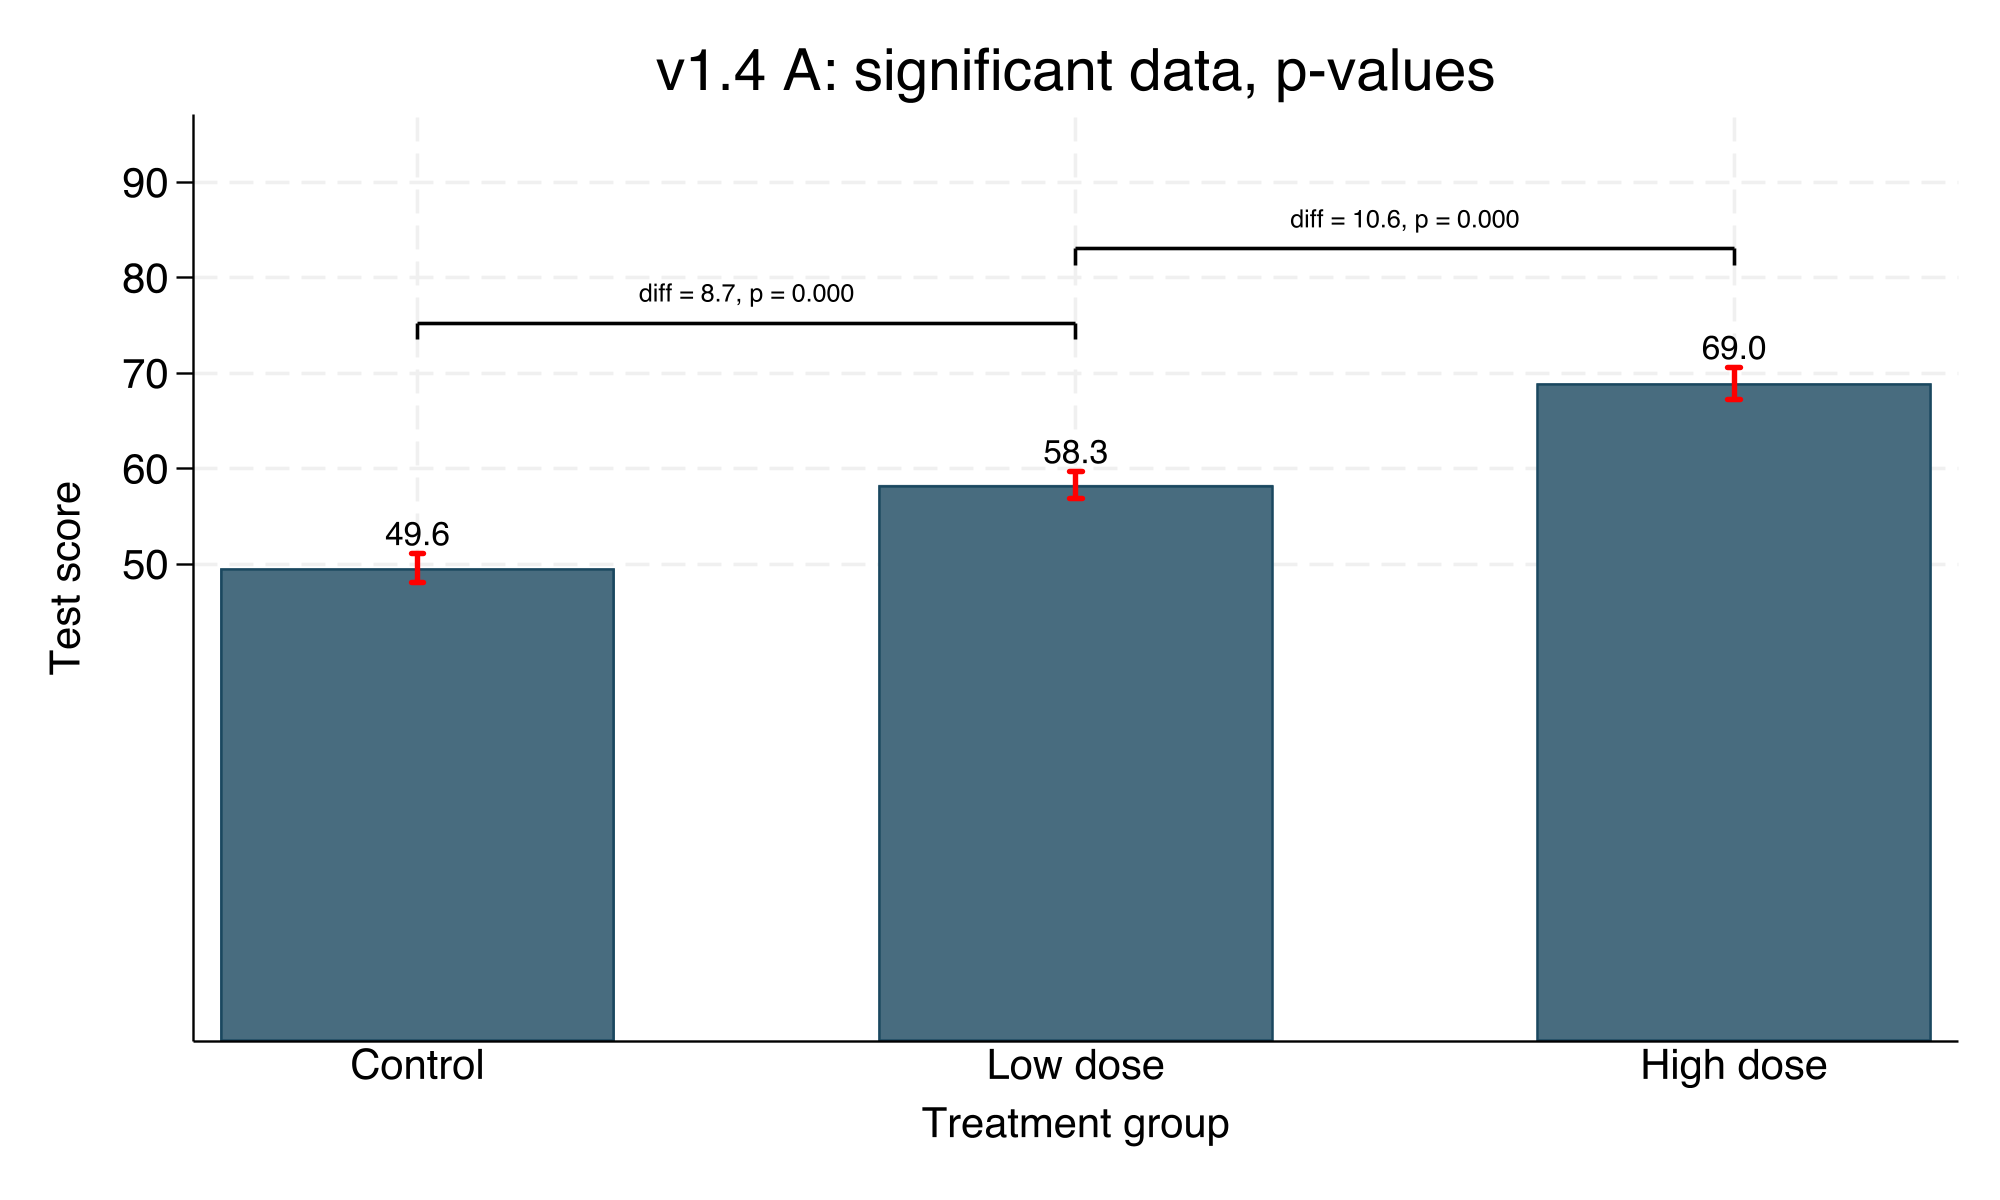
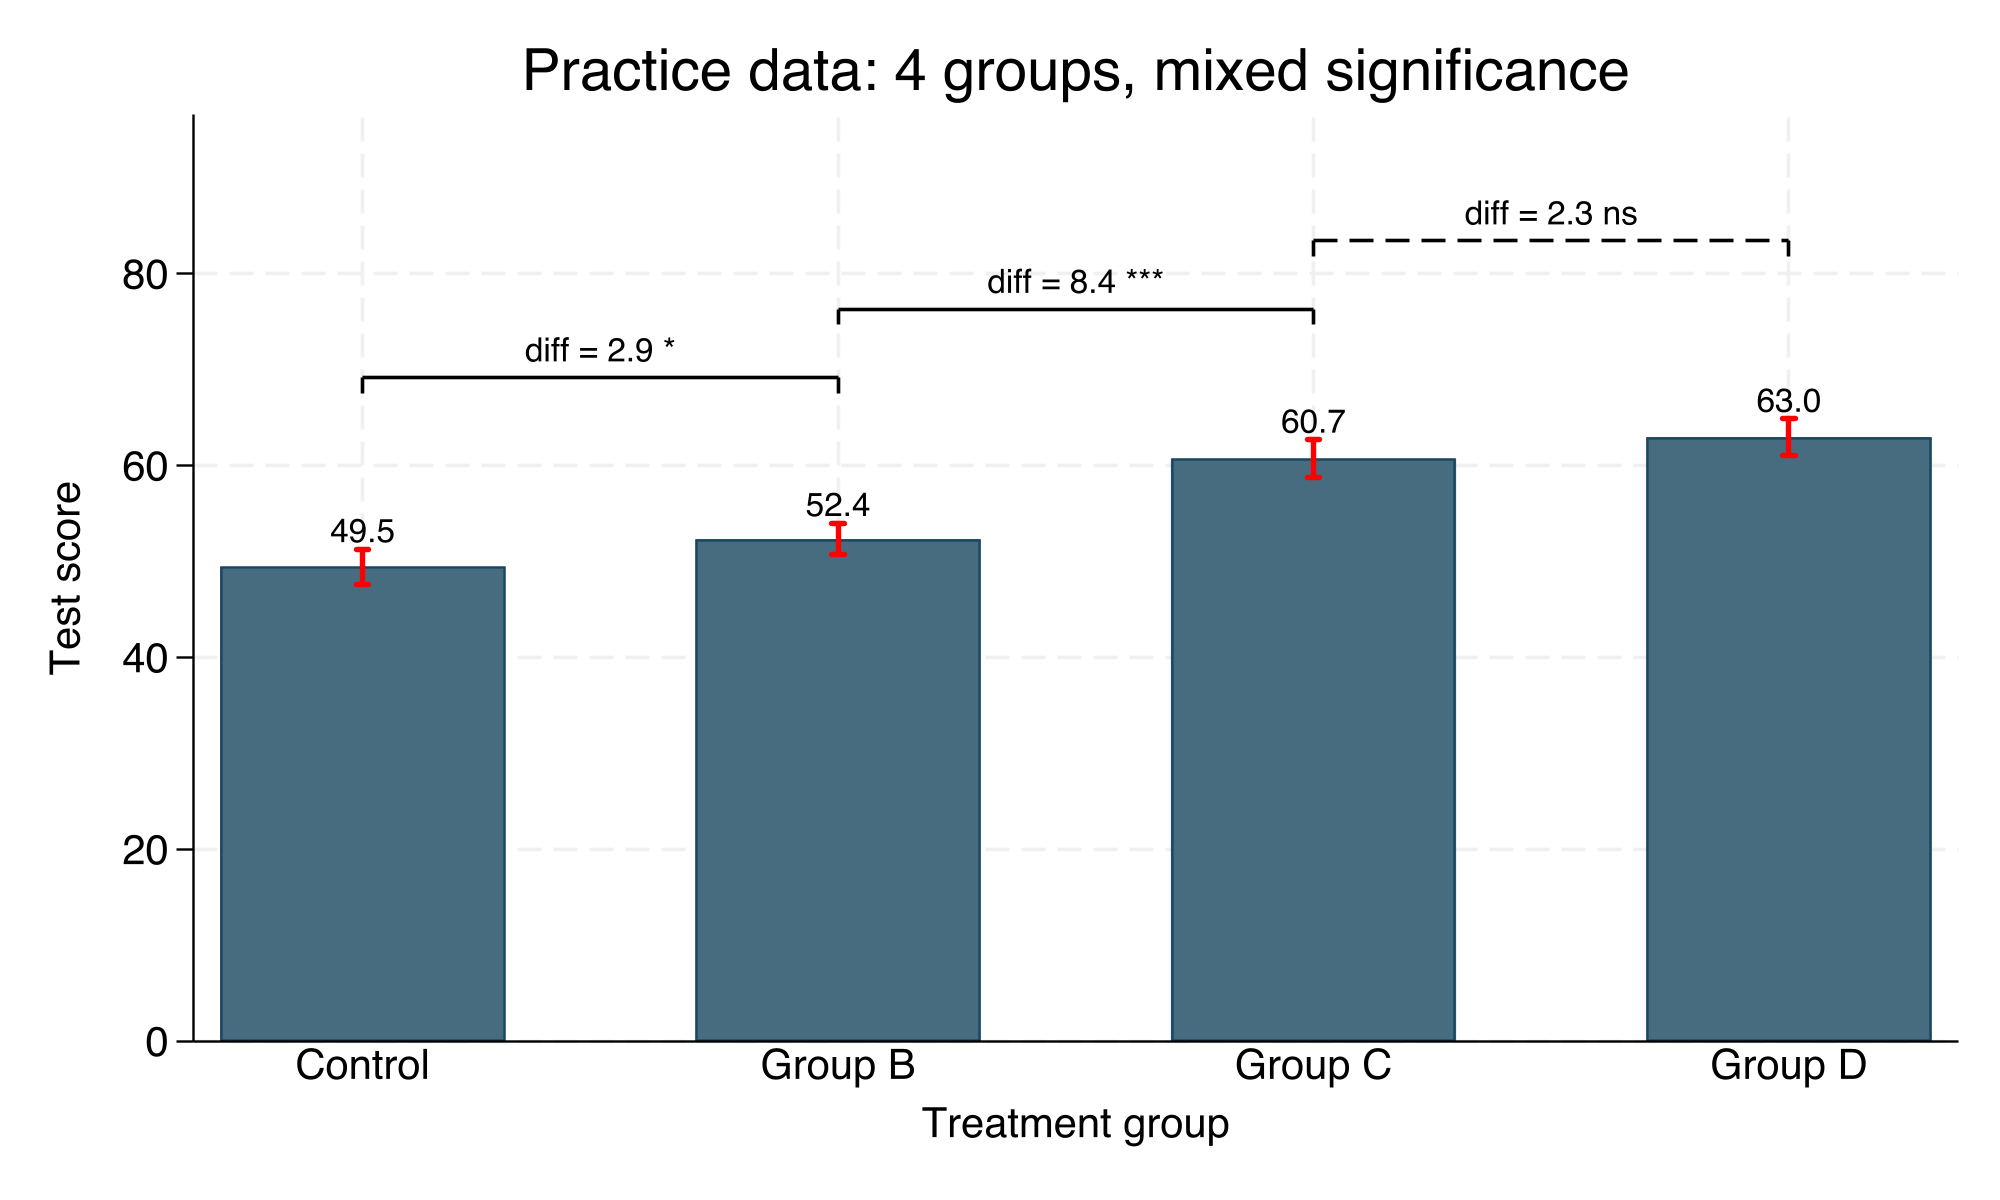
practice data: 4 groups with mixed significance

diff --git a/README.md b/README.md
@@ -40,8 +40,10 @@ do barttest_example.do
 
 ## Quick start
 
-A practice dataset with clear, significant group differences is included.
-Load it directly from the repo (no install needed):
+A practice dataset is included: **four groups** where adjacent comparisons are a
+mix of significant and non-significant (1 vs 2 ns, 2 vs 3 significant, 3 vs 4 ns),
+so you can see both solid and dashed brackets. Load it directly from the repo
+(no install needed):
 
 ```stata
 use "https://raw.githubusercontent.com/ganma0517/stata_barttest/main/barttest_demo.dta", clear
